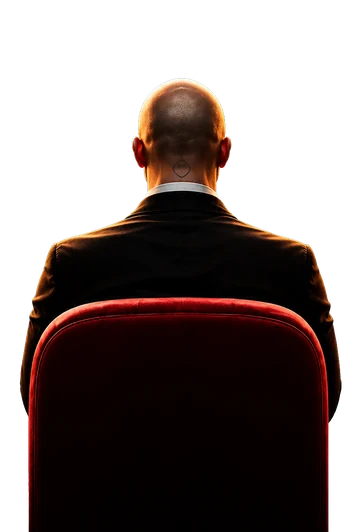
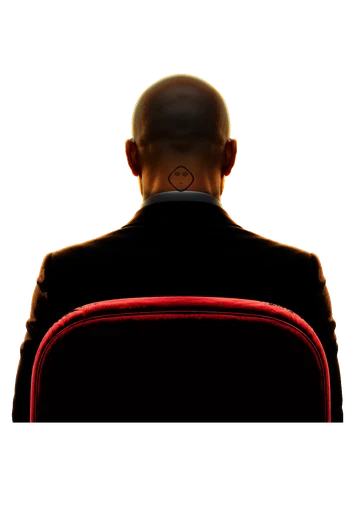
Kinosál: nový Hitman ve stylu ostatních diváků (tmavá silueta s teplým lemem, černé tetování smajlíka na zátylku – hitman2.py z obrázků od ChatGPT), i s rukama nahoře; smajlík joint hraje Skeliho nahrávku (cvaknutí zapalovače a nahulení, 4 náhodné varianty)

Changed region(s): [[0.0304, 0.1203, 0.9724, 1.0]]

diff --git a/src/main/webapp/js/premiera-sal.js b/src/main/webapp/js/premiera-sal.js
@@ -52,8 +52,8 @@
   function postavSal() {
     if (postaveno) return; postaveno = true;
     var j = function (r) { if (!r.ok) throw new Error(r.status); return r.json(); };
-    Promise.all([fetch('/img/premiera/kino/divaci.json?v=2').then(j), fetch('/img/premiera/kino/sedadla.json?v=1').then(j),
-      fetch('/img/premiera/kino/ruce.json?v=1').then(j).catch(function () { return {}; })]).then(function (r) {
+    Promise.all([fetch('/img/premiera/kino/divaci.json?v=3').then(j), fetch('/img/premiera/kino/sedadla.json?v=1').then(j),
+      fetch('/img/premiera/kino/ruce.json?v=2').then(j).catch(function () { return {}; })]).then(function (r) {
       var meta = r[0], sedadla = r[1], RUCE = r[2] || {};
       // pořadí obsazování: nejdřív k prostřední uličce, kterou vidí i telefon na výšku (výřez ±380 px kolem uličky
       // na x = 836) – jinak by si první návštěvník sedl na kraj mimo obraz a vypadalo by to, že se nic nestalo;
@@ -90,14 +90,14 @@
         d.style.setProperty('--zpozdeni', (xc / W * 1.2 + st.r * 0.03).toFixed(2) + 's');   // vlna jde zleva doprava
         // obrázek má pod rameny nakreslené vlastní opěradlo: ořízne se po stejné křivce (při vlně zůstane schované)
         var im = document.createElement('img');
-        im.className = 'zaklad'; im.src = '/img/premiera/kino/' + String(m.f).replace('.png', '.webp'); im.alt = ''; im.decoding = 'async';
+        im.className = 'zaklad'; im.src = '/img/premiera/kino/' + String(m.f).replace('.png', '.webp') + '?v=2';   // v=2: nový Hitman (24. 11.) im.alt = ''; im.decoding = 'async';
         im.style.cssText = 'left:' + (bok / w2 * 100).toFixed(2) + '%;width:' + (w / w2 * 100).toFixed(2) + '%;top:' + (nad / h * 100).toFixed(2)
           + '%;clip-path:polygon(' + krivka(top, m.h * k, left, w).join(',') + ')';
         d.appendChild(im);
         if (ruka) {                                                  // stejný divák s rukama nahoře, leží pixel na pixelu na prvním
           var vys = (m.h + ruka.nad) * k, horni = top - ruka.nad * k;
           var r2 = document.createElement('img');
-          r2.className = 'ruce'; r2.src = '/img/premiera/kino/' + ruka.f + '?v=1'; r2.alt = ''; r2.decoding = 'async';
+          r2.className = 'ruce'; r2.src = '/img/premiera/kino/' + ruka.f + '?v=2'; r2.alt = ''; r2.decoding = 'async';
           r2.style.cssText = 'top:' + ((horni - top2) / h * 100).toFixed(2) + '%;clip-path:polygon(' + krivka(horni, vys, left2, w2).join(',') + ')';
           d.appendChild(r2); d.classList.add('ma-ruce');
         }

diff --git a/src/main/webapp/js/premiera-zvuky.js b/src/main/webapp/js/premiera-zvuky.js
@@ -14,7 +14,8 @@
   if (!C || !window.fetch) return;
   var CESTA = '/sounds/premiera/', VERZE = '1';
   var ATMO = { 'atmo-hovor': 0, 'atmo-ticho': 0.22, 'atmo-dest': 0.16, 'atmo-hukot': 0.2 };   // hlasitost (hovor podle lidí)
-  var OSTATNI = ['kviz-napeti', 'kviz-vir', 'kviz-uder', 'vlna', 'finale-stoupani', 'finale-projektor', 'finale-ton'];
+  var OSTATNI = ['kviz-napeti', 'kviz-vir', 'kviz-uder', 'vlna', 'finale-stoupani', 'finale-projektor', 'finale-ton',
+    'joint-1', 'joint-2', 'joint-3', 'joint-4'];   // joint = Skeliho nahrávka: cvaknutí zapalovače a nahulení (4 varianty)
   var ac = null, master = null, buf = {}, nacita = {}, smycky = {}, lidi = 1, zapnuto = false, vFinale = false, vir = null, napeti = null;
 
   // ---------- PROGRAM ODPOČTU (Skeli 24. 11.): hudba z Mixkitu (Stock Music Free License – smí na web, ne jako samostatná
@@ -201,7 +202,10 @@
           g.gain.setValueAtTime(0.0001, t); g.gain.exponentialRampToValueAtTime(0.07, t + 0.05); g.gain.exponentialRampToValueAtTime(0.0001, t + 0.6); o.connect(g); g.connect(master); g.connect(dozvuk()); o.start(t); o.stop(t + 0.65); })(); break;
         case 'tlesk': sum(0, 0.06, 0.18, 'highpass', 1400); sum(0.11, 0.06, 0.14, 'highpass', 1600); break;
         case 'oslava': ton(1046.5, 0, 0.05, 0.4); ton(1318.5, 0.06, 0.05, 0.4); ton(1568, 0.12, 0.05, 0.7); break;
-        case 'joint': sum(0, 0.7, 0.05, 'lowpass', 900, 300); bublina(0.7, 0.25); break;           // vydechnutí
+        case 'joint': (function () {                                                              // Skeliho nahrávka, náhodná varianta
+          var j = 'joint-' + (1 + Math.floor(Math.random() * 4));
+          if (buf[j]) hraj(j, 0.7, { nabeh: 0.005 }); else { nacti(j).catch(function () {}); sum(0, 0.7, 0.05, 'lowpass', 900, 300); }
+        })(); break;
         default: bublina(1, 0.3);
       }
     },
